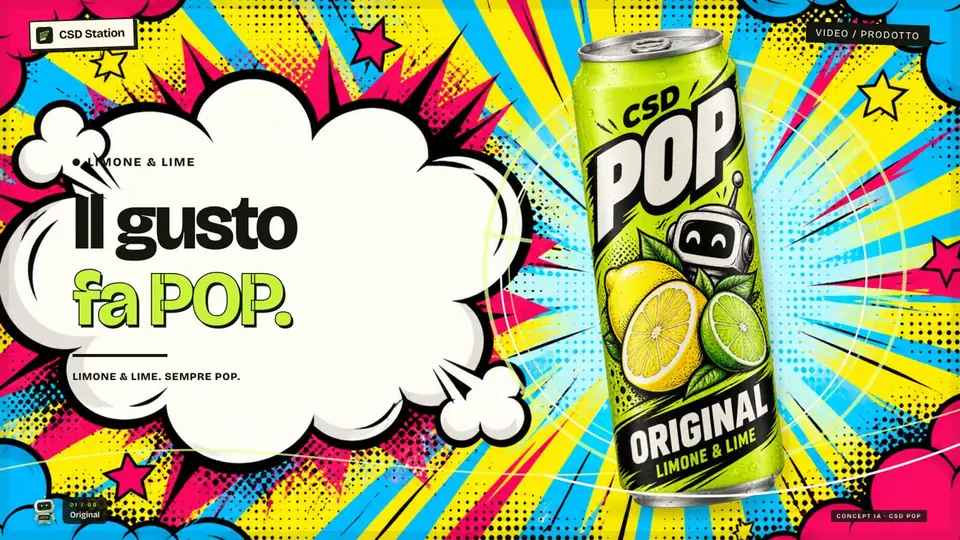
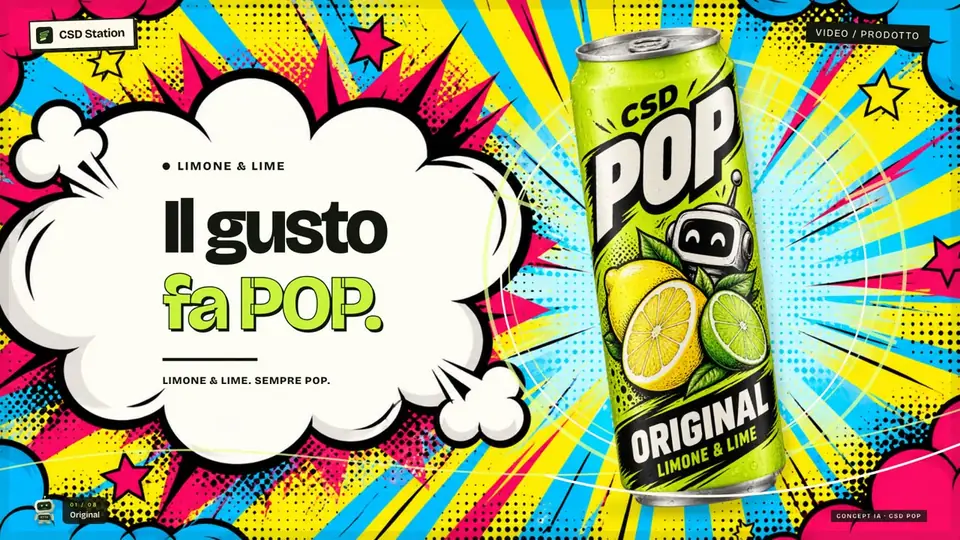
Video Prodotto: copertina rigenerata con «Il gusto fa POP» al centro della nuvola

diff --git a/src/components/station/MediaPage.tsx b/src/components/station/MediaPage.tsx
@@ -19,7 +19,7 @@ const videos: Demo[] = [
   { n: '01', key: 'universita', title: 'Università e tesine', note: 'Da una tesi di 80 pagine a 10 minuti chiari, in 30 secondi.', src: '/video-slide/film-universita.mp4', poster: '/video-slide/film-universita.webp', start: 1.6 },
   { n: '02', key: 'immobili', title: 'Immobili e progetti', note: 'Dal terreno alla casa finita: un progetto raccontato in 30 secondi.', src: '/video-slide/film-casa.mp4', poster: '/video-slide/film-casa.webp' },
   { n: '03', key: 'veicoli', title: 'Veicoli e colori', note: 'Un’icona, sei colori: uno studio colore in 30 secondi.', src: '/video-slide/film-veicoli.mp4', poster: '/video-slide/film-veicoli.webp', start: 2.5 },
-  { n: '04', key: 'prodotto', title: 'Lancio di un prodotto', note: 'Sette gusti, una linea: CSD Pop raccontata in 30 secondi.', src: '/video-slide/film-prodotto.mp4', poster: '/video-slide/film-prodotto.webp', start: 1.6 },
+  { n: '04', key: 'prodotto', title: 'Lancio di un prodotto', note: 'Sette gusti, una linea: CSD Pop raccontata in 30 secondi.', src: '/video-slide/film-prodotto.mp4', poster: '/video-slide/film-prodotto.webp?v=2', start: 1.6 },
   { n: '05', key: 'report', title: 'Report aziendale', note: 'Ricavi, margine, cassa e consegne: un semestre letto in 30 secondi.', src: '/video-slide/film-report.mp4', poster: '/video-slide/film-report.webp', start: 2.2 },
   { n: '06', key: 'cibo', title: 'Menu e locale', note: 'Fritto & Burger: un menù raccontato morso dopo morso, in 30 secondi.', src: '/video-slide/film-cibo.mp4', poster: '/video-slide/film-cibo.webp', start: 1.6 },
 ];
